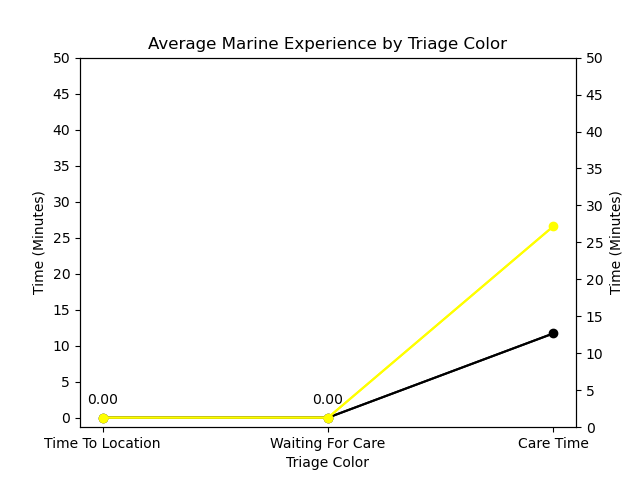
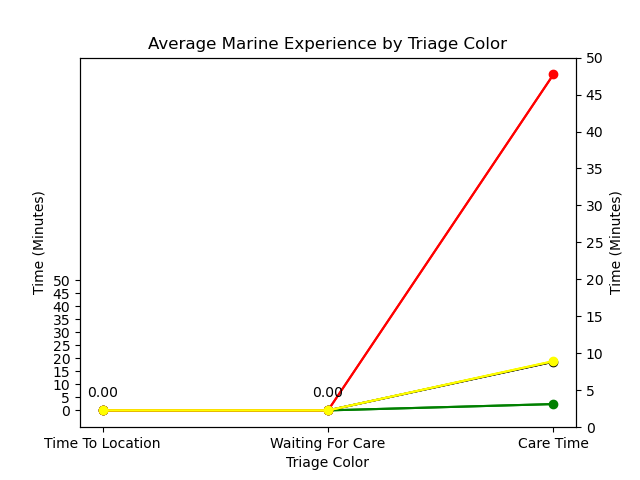
Fresh data

diff --git a/main.py b/main.py
@@ -54,9 +54,9 @@ Purpose: All the variables and parameters that are needed throughout the program
 class VariablesAndParameters:
     #Sim Details
     warm_up = 1
-    number_of_runs = 10
+    number_of_runs = 20
     run_number = 0
-    duration_of_simulation_in_minutes = 10
+    duration_of_simulation_in_minutes = 40
     simulation_time = (duration_of_simulation_in_minutes * 60)
     #A Note On Warm Up Variable:
     #For event simulations, it's important to include some warm-up runs so that the data you glean is as accurate to
